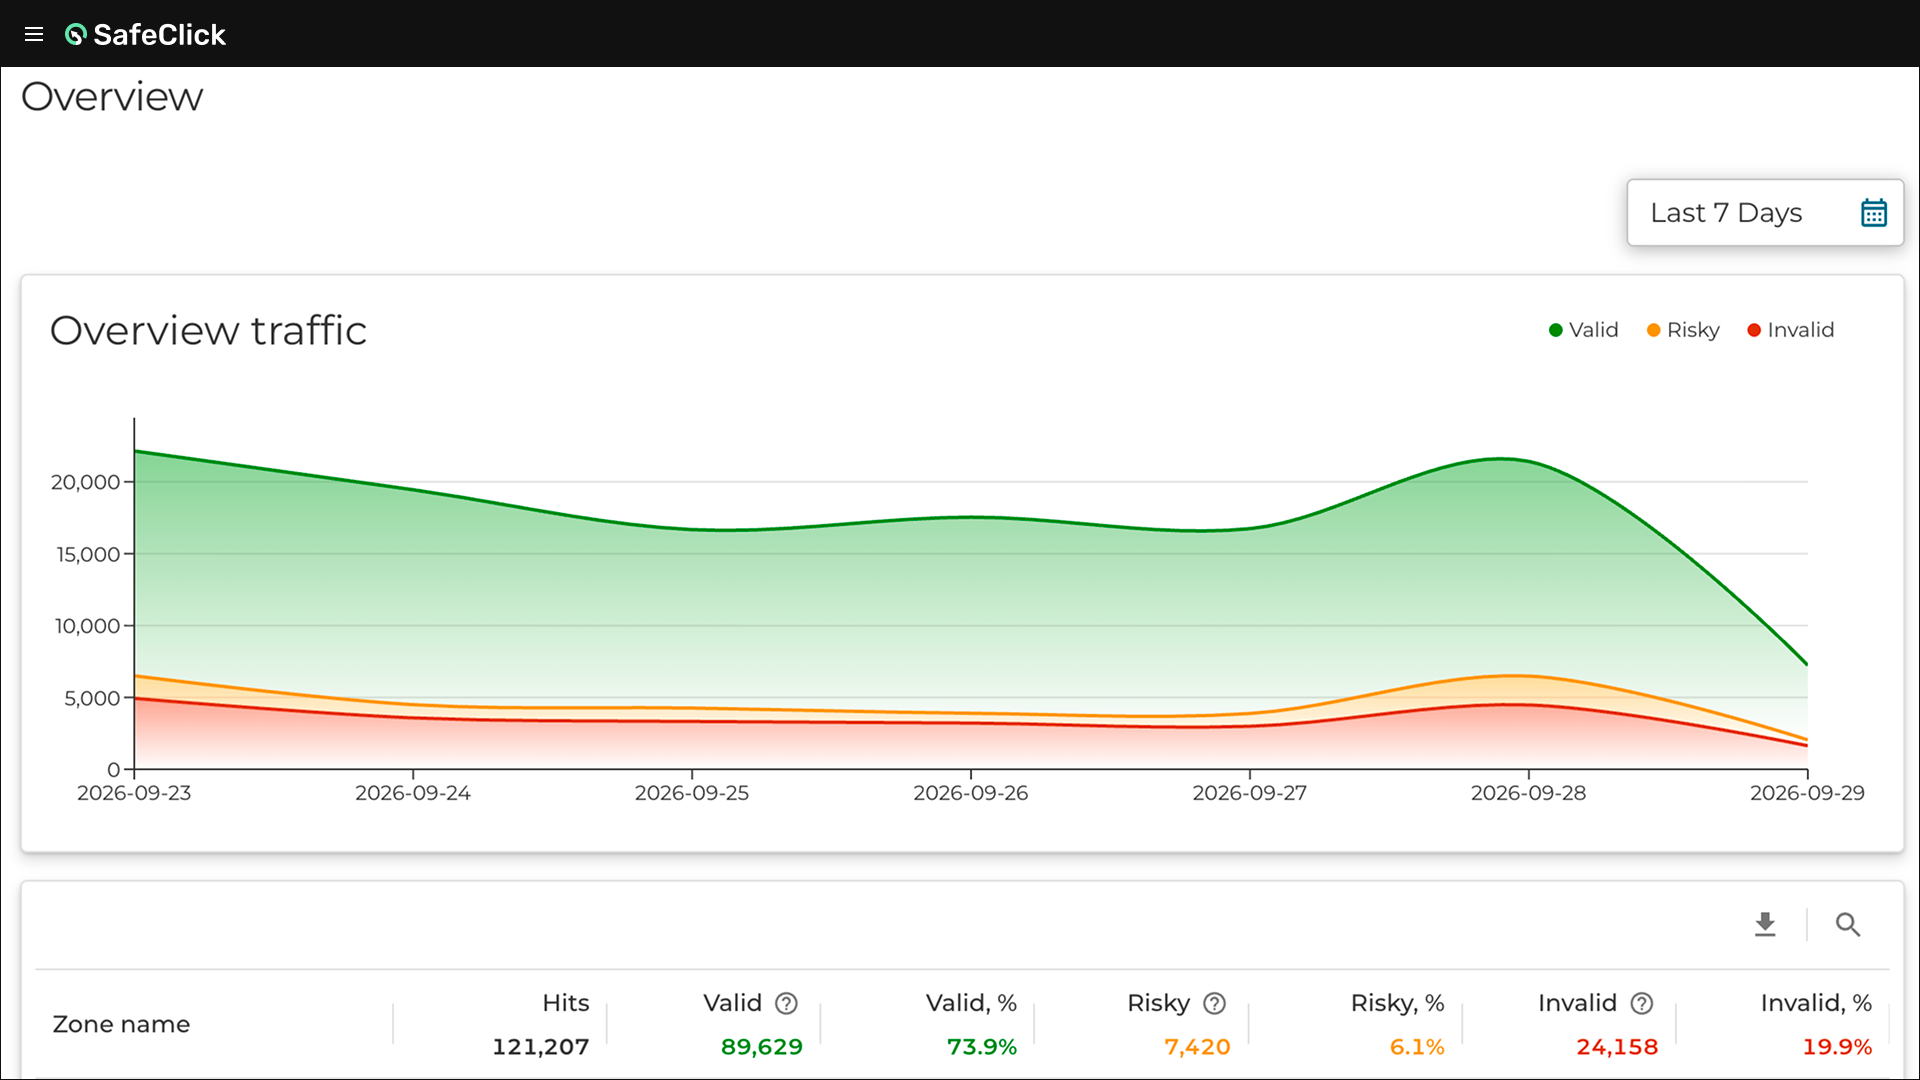
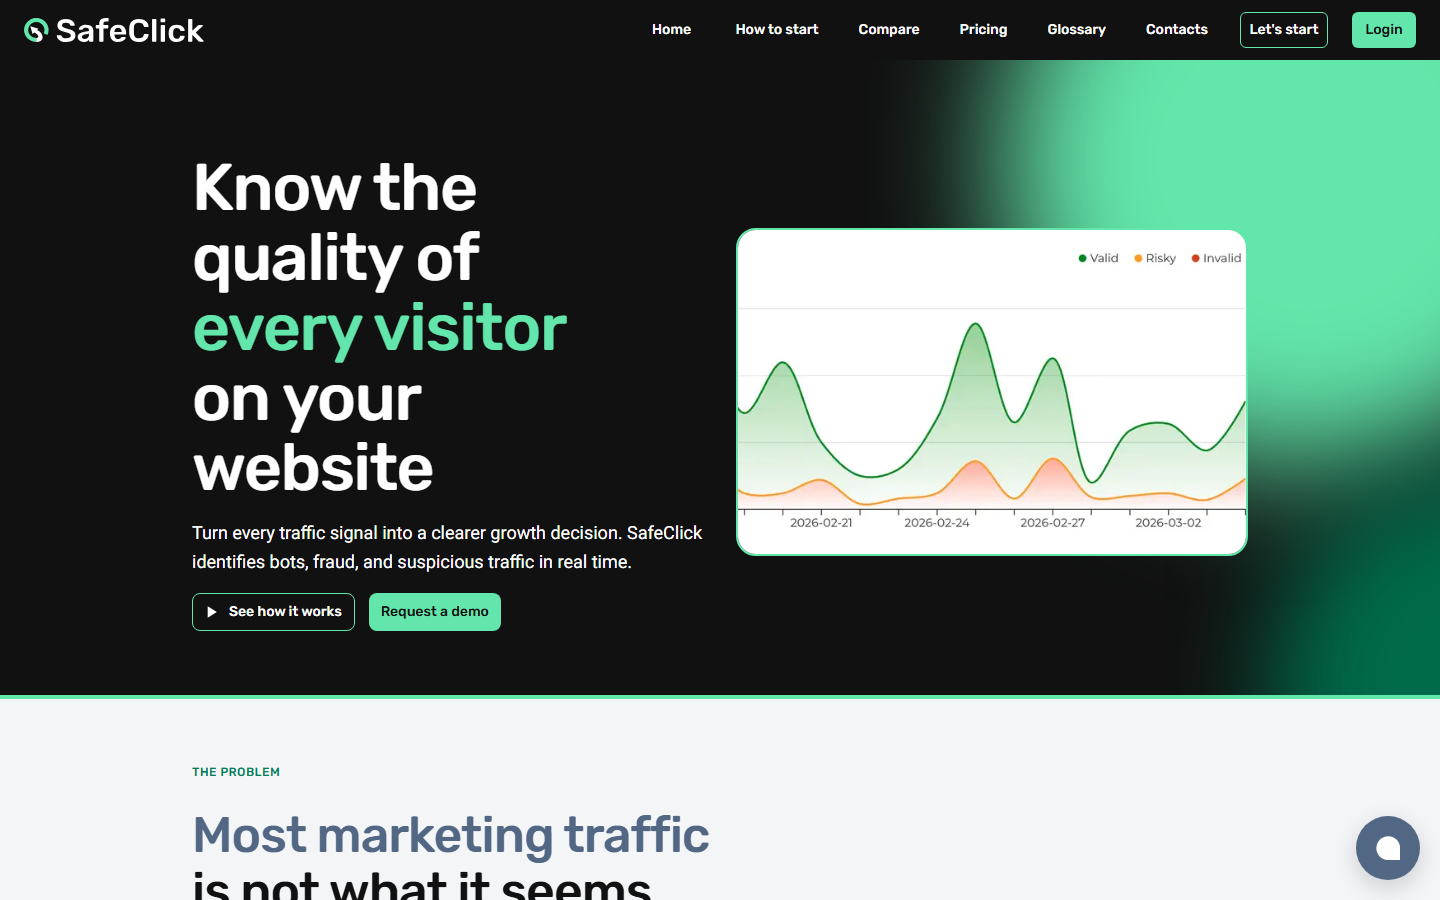
feat: enhance screenshot functionality and add new project details for FraudScore and SafeClick websites

diff --git a/src/styles/global.css b/src/styles/global.css
@@ -500,6 +500,7 @@
 .home-content>.source-section:nth-child(n+3) img{width:100%;height:100%;object-fit:contain;border-radius:.875rem;transition:scale 400ms}
 .home-content>.home-project-cover:nth-child(n+3) .image-link{padding:0}
 .home-content>.home-project-cover:nth-child(n+3) img{object-fit:cover;border-radius:0}
+@media(hover:hover) and (prefers-reduced-motion:no-preference){.home-content>.home-project-cover:hover img{scale:1.04}}
 .home-content>.source-section:nth-child(n+3) h2{font-size:var(--text-title);line-height:1.2;letter-spacing:-.025em;margin:0 0 1rem}
 .home-content>.source-section:nth-child(n+3)>p{color:var(--body);margin-bottom:1rem}
 .home-content>.source-section:nth-child(n+3)>p:last-child{margin-top:auto;padding-top:.5rem}

diff --git a/scripts/README.md b/scripts/README.md
@@ -17,9 +17,9 @@ npx playwright install chromium
 
 ## Конфигурация
 
-Редактируйте `scripts/screenshots.config.json`. Начальная запись `example` —
-доступный тестовый сайт; замените её реальными проектами или добавьте новые записи.
-Конфигурация независима от Markdown и ID проектов портфолио.
+Редактируйте `scripts/screenshots.config.json`. В нём настроены FraudScore и
+SafeClick; добавляйте новые проекты или страницы в этот список.
+ID из конфигурации используется для поиска папки проекта в портфолио.
 
 ```json
 {
@@ -52,6 +52,10 @@ npx playwright install chromium
 и мобильным User-Agent Pixel 5; это эмуляция мобильного устройства, а не Safari.
 
 ### Cookie-баннер
+
+Для текущих сайтов действия уже настроены: FraudScore — кнопка Agree (другой
+кнопки закрытия у баннера нет), SafeClick — Decline. Они выполняются перед съёмкой
+desktop и mobile. Чтобы обновить PNG без баннеров, запустите `npm run screenshots`.
 
 По умолчанию скрипт ничего не нажимает и не скрывает элементы сайта. Чтобы явно
 нажать кнопку баннера, добавьте на уровень проекта:
@@ -86,33 +90,50 @@ npm run screenshots -- --help
 
 `--page` требует `--project`; `--device` можно сочетать с обоими фильтрами.
 Для отдельного списка сайтов: `npm run screenshots -- --config scripts/other.json`.
-Относительный путь `--config` считается от текущей папки. Результаты всегда
-сохраняются в `screenshots/` в корне этого проекта.
+Относительный путь `--config` считается от текущей папки. Папка результата
+определяется автоматически по ID, независимо от расположения конфигурации.
 
 ## Результаты и обновление
 
+Скрипт ищет ID среди названий папок `src/content/companies/*/projects/<id>/`,
+в которых есть `<id>.md` или `<id>.mdx`. Если совпадения нет, он проверяет папку
+компании `<id>/` с `index.md` или `index.mdx`: она подходит, если у неё нет
+вложенных проектов с Markdown. Компания с отдельными проектами не используется
+как папка результата — указывайте ID конкретного проекта.
+
+Для найденного проекта PNG сохраняются рядом с Markdown. Название страницы
+добавляется в имя файла, чтобы несколько URL не перезаписывали друг друга:
+
 ```text
-screenshots/
-  project-one/
-    homepage/
-      desktop.png
-      desktop-full.png
-      mobile.png
-      mobile-full.png
+src/content/companies/fraudscore/projects/safeclick-website/
+  safeclick-website.md
+  cover.png
+  homepage-desktop.png
+  homepage-desktop-full.png
+  homepage-mobile.png
+  homepage-mobile-full.png
 ```
 
-`desktop.png` и `mobile.png` содержат верхнюю видимую область; `*-full.png` — всю
+Для компании без отдельных проектов, например `myhospital`, эти же файлы
+сохраняются непосредственно в `src/content/companies/myhospital/`.
+ID папок должны быть уникальны: несколько совпадений вызывают ошибку до съёмки.
+
+Неизвестные ID сохраняют прежнюю структуру:
+`screenshots/<id>/<page>/desktop.png`, `desktop-full.png`, `mobile.png`,
+`mobile-full.png`. Ранее созданные файлы из `screenshots/` не переносятся и
+не удаляются автоматически.
+
+`*-desktop.png` и `*-mobile.png` содержат верхнюю видимую область; `*-full.png` — всю
 страницу. Повторите ту же команду, чтобы обновить нужные файлы. Каждый старый PNG
 заменяется только после успешного захвата и записи нового; при ошибках старые
 файлы не удаляются. Два снимка одного устройства обновляются независимо, поэтому
 при частичной ошибке они могут относиться к разным запускам. Не запускайте съёмку
 одних и тех же страниц одновременно.
 
-Исходники PNG исключены из Git через `.gitignore` и не попадают в сборку Astro.
-Когда решите добавить их в кейсы, вручную перенесите выбранные файлы в существующую
-структуру `src/content/companies/<company>/projects/<project>/` (рядом с Markdown
-отдельного проекта) или `src/content/companies/<company>/` (для компании целиком)
-и добавьте ссылки в Markdown.
+PNG в `screenshots/` исключены из Git и сборки Astro. PNG, сохранённые в
+`src/content/companies/`, доступны для добавления в Git и копируются в сборку
+существующей интеграцией изображений. Скрипт не добавляет ссылки на них в Markdown
+и не меняет обложки карточек — отображение на страницах настраивается вручную.
 
 В терминале выводятся URL, созданные файлы, предупреждения загрузки, причины ошибок
 и итоговое количество успешных/неудачных PNG. Ошибки конфигурации, браузера или
@@ -144,6 +165,8 @@ screenshots/
 node --test scripts/screenshots.test.mjs
 ```
 
-Проверка использует локальный HTTP-сайт и Chromium: проверяет размеры PNG,
+Проверка проверяет выбор папки проекта/компании, резервную папку для неизвестного
+ID и ошибку при нескольких совпадениях. Затем использует локальный HTTP-сайт
+и Chromium: проверяет размеры PNG,
 мобильную эмуляцию, lazy-loading, cookieAction, продолжение после HTTP-ошибки и
 сохранность старых изображений. Временные результаты удаляются после проверки.

diff --git a/src/content/companies/fraudscore/projects/presentations/presentations.md b/src/content/companies/fraudscore/projects/presentations/presentations.md
@@ -3,7 +3,7 @@ project: "fraudscore"
 slug: "presentations"
 title: "Presentations"
 summary: "FraudScore presentation for the Madrid Mobile Summit expo."
-cover: null
+cover: "/images/projects/fraudscore/presentations/cover.png"
 order: 2
 sourceHeading: "Presentations"
 ---

diff --git a/src/content/companies/fraudscore/projects/fraudscore-website/fraudscore-website.md b/src/content/companies/fraudscore/projects/fraudscore-website/fraudscore-website.md
@@ -3,7 +3,8 @@ project: "fraudscore"
 slug: "fraudscore-website"
 title: "FraudScore Website"
 summary: ""
-cover: null
+cover: "/images/projects/fraudscore/fraudscore-website/cover.png"
+fillCover: true
 order: -2
 ---
 
